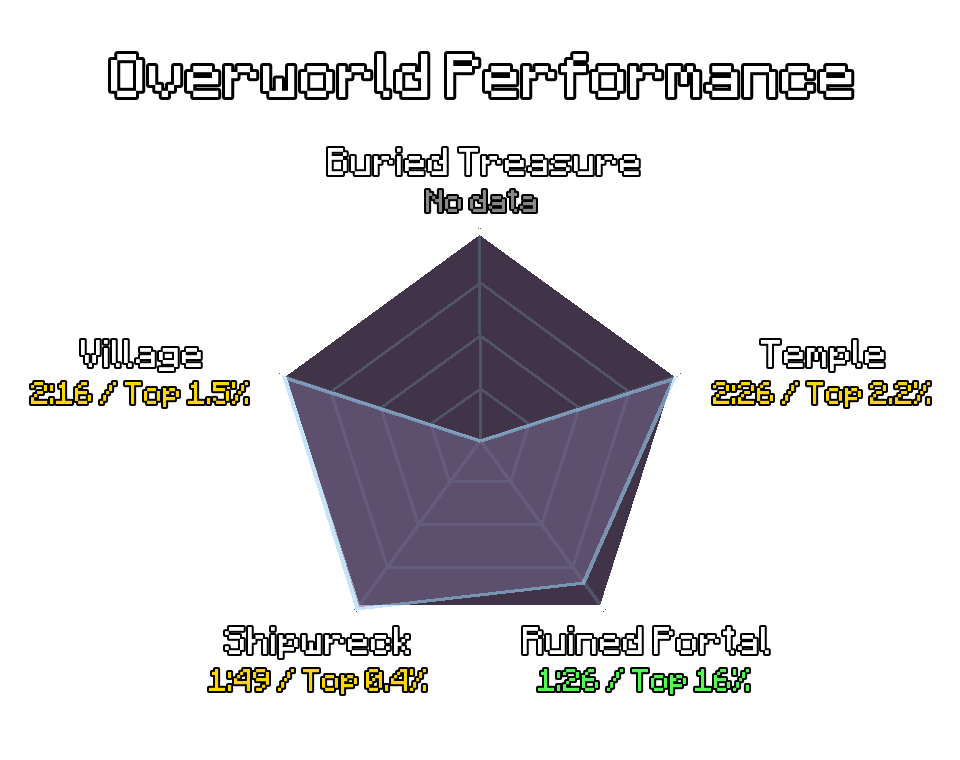
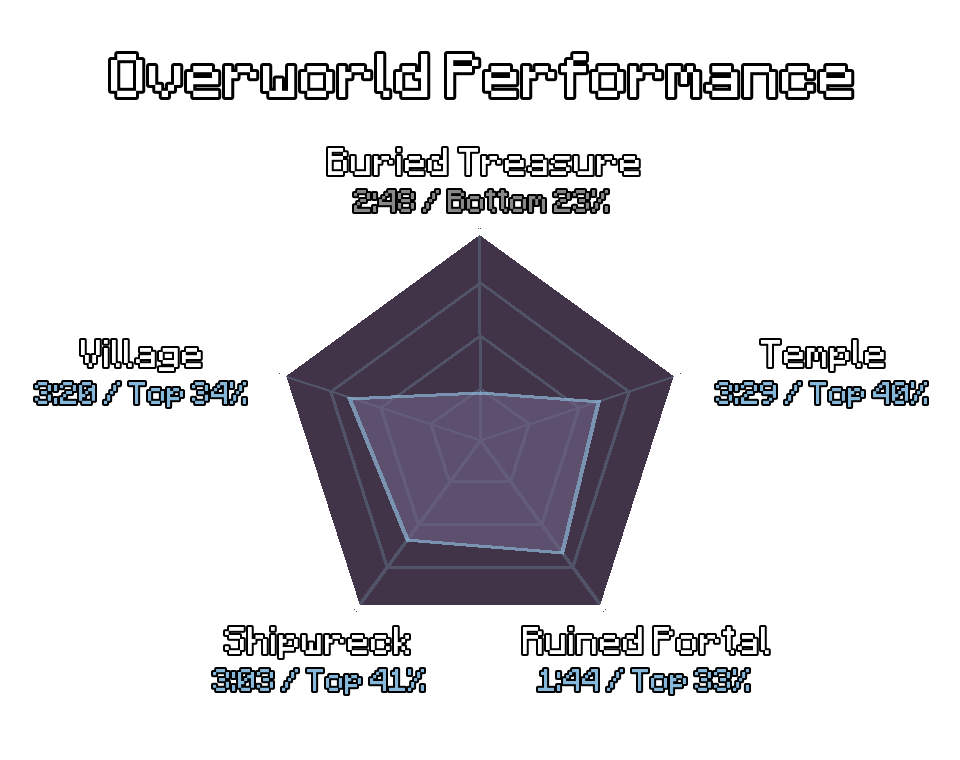
Update to sample size clarity and can choose season with analysis

diff --git a/src/bot.py b/src/bot.py
@@ -144,8 +144,8 @@ async def plot(interaction: Interaction, input_name: str = SlashOption(
     "season",
     required = False,
     description="The season to gather data for.",
-    default="5",
-    choices=["1", "2", "3", "4", "5", "Lifetime"]
+    default="6",
+    choices=["1", "2", "3", "4", "5", "6", "Lifetime"]
     ), hidden: str = SlashOption(
     "hidden",
     required = False,
@@ -329,12 +329,18 @@ async def match(interaction: Interaction, match_id: str = SlashOption(
     update_records("match", interaction.user.id, match_id, hidden, True)
 
 
-@bot.slash_command(name="analysis", description="Analyses your last ~150 games to visualise how a player performs throughout their runs.")
+@bot.slash_command(name="analysis", description="Analyses 100+ games from any season to visualise how a player performs throughout their runs.")
 async def analysis(interaction: Interaction, input_name: str = SlashOption(
     "name",
     required = False,
     description="The player to analyse.",
     default = ""
+    ), season: str = SlashOption(
+    "season",
+    required = False,
+    description="The season to gather data from.",
+    default="6",
+    choices=["1", "2", "3", "4", "5", "6"]
     ), hidden: str = SlashOption(
     "hidden",
     required = False,
@@ -411,42 +417,27 @@ async def analysis(interaction: Interaction, input_name: str = SlashOption(
             cd_extra = f"\nTheir last analysis is {last_link}"
 
     delta = int(time()) - user_cooldown
-    if delta < cooldown:
+    if delta < cooldown and not input_name == "Nadoms":
         next_available = f"<t:{user_cooldown + cooldown}:R>"
         print("Command on cooldown.")
         await interaction.followup.send(f"This command is on cooldown for `{input_name}`. (You can use it {next_available}){cd_extra}", ephemeral=hidden)
         update_records("analysis", interaction.user.id, input_name, hidden, False)
         return
 
-    detailed_matches = await games.get_detailed_matches(response, 30, 130)
-
-    completions = response["statistics"]["season"]["completions"]["ranked"]
-    games_played = response["statistics"]["season"]["playedMatches"]["ranked"]
+    num_comps, detailed_matches = await games.get_detailed_matches(response, season, 5, 150)
 
     if detailed_matches == -1:
         print("Player does not have enough completions.")
-        await interaction.followup.send(f"You need a minimum of 15 completions from this season to analyse. (You have {completions})", ephemeral=hidden)
-        update_records("analysis", interaction.user.id, input_name, hidden, False)
-        return
-    
-    if detailed_matches == -2:
-        print("Player's completion rate is too low.")
-        await interaction.followup.send(f"You need at least a 15% completion rate in this season to use this command. (You have {int(completions/games_played*100)}%)", ephemeral=hidden)
+        await interaction.followup.send(f"{input_name} needs a minimum of 5 completions from season {season} to analyse. (Has {num_comps})", ephemeral=hidden)
         update_records("analysis", interaction.user.id, input_name, hidden, False)
         return
 
     try:
-        anal = analysing.main(response, detailed_matches)
+        anal = analysing.main(response, num_comps, detailed_matches, season)
     except Exception as e:
         print("Error caught!")
         traceback.print_exc()
         await interaction.followup.send("An error has occurred. <@298936021557706754> fix it pls", ephemeral=hidden)
-        update_records("analysis", interaction.user.id, input_name, hidden, False)
-        return
-    
-    if anal == -3:
-        print("Player is unranked.")
-        await interaction.followup.send(f"You need to have a rank to use this command." , ephemeral=hidden)
         update_records("analysis", interaction.user.id, input_name, hidden, False)
         return
 

diff --git a/src/gen_functions/games.py b/src/gen_functions/games.py
@@ -107,47 +107,44 @@ def get_avg_completion(response, season_or_total):
     return avg_completion
 
 
-async def get_detailed_matches(player_response, min_comps, target_games):
+async def get_detailed_matches(player_response, season, min_comps, target_games):
     then = datetime.now()
     detailed_matches = []
-    # num_comps = 0
+    num_comps = 0
     num_games = 0
     i = 0
-    s = get_season()
 
     name = player_response["nickname"]
-    season_comps = player_response["statistics"]["season"]["completions"]["ranked"]
-    season_games = player_response["statistics"]["season"]["playedMatches"]["ranked"]
-    if season_comps < min_comps / 2:
-        return -1 # Not enough completions this season
-    if season_comps / season_games < 0.15:
-        return -2 # Ratio of completions to played matches is too low
-    
+    uuid = player_response["uuid"]
     response = "PLACEHOLDER"
     headers = {'User-Agent': 'Mozilla/5.0 (X11; Linux i686; rv:110.0) Gecko/20100101 Firefox/110.0.'}
 
-    while s >= get_season() - 1:
-        response = requests.get(f"https://mcsrranked.com/api/users/{name}/matches?page={i}&season={s}&count=50&type=2&excludedecay", headers=headers, timeout=10).json()["data"]
+    while True:
+        response = requests.get(f"https://mcsrranked.com/api/users/{name}/matches?page={i}&season={season}&count=50&type=2&excludedecay", headers=headers, timeout=10).json()["data"]
 
-        games_left = target_games-num_games
+        games_left = target_games - num_games
         if games_left <= 49 and len(response) > games_left:
             response = response[0:games_left]
 
         matches = await asyncio.gather(*[get_match_details(match["id"]) for match in response])
         detailed_matches += matches
+        i += 1
         num_games = len(detailed_matches)
-        if [] in matches:
-            i = 0
-            s -= 1
+        if matches == []:
+            break
 
         if num_games >= target_games:
             break
 
-    # if num_comps == 0:
-    #     return -1
+    for match in detailed_matches:
+        if not match["forfeited"] and match["result"]["uuid"] == uuid:
+            num_comps += 1
+
+    if num_comps < min_comps and not name == "Nadoms":
+        return num_comps, -1 # Not enough completions this season
 
     process_split(then, "Gathering data")
-    return detailed_matches
+    return num_comps, detailed_matches
 
 
 async def get_match_details(match_id):
@@ -188,7 +185,7 @@ def get_season():
         season = response[0]["match_season"]
         return season
     """
-    return 5
+    return 6
 
 
 def split(then, name="That"):

diff --git a/src/analysis_functions/split_insights.py b/src/analysis_functions/split_insights.py
@@ -20,15 +20,16 @@ ANGLES = [(i * (2 * math.pi)) / SIDES -
 ANGLES.insert(0, ANGLES.pop())
 
 
-def main(uuid, detailed_matches, elo):
-    average_splits, average_deaths = get_avg_splits(uuid, detailed_matches)
+def main(uuid, detailed_matches, elo, season, num_comps):
+    number_splits, average_splits, average_deaths = get_avg_splits(uuid, detailed_matches)
     ranked_splits = get_ranked_splits(average_splits)
     polygon = get_polygon(ranked_splits)
     polygon = add_text(polygon, average_splits, ranked_splits)
 
     comments = {}
-    comments["title"] = "Splits"
-    comments["description"] = "*Here are your strongest and weakest splits.*"
+    comments["title"] = f"Split Performance in Season {season}"
+    comments["description"] = f"{len(detailed_matches)} games (with {num_comps} completions) were used in analysing your splits. {get_sample_size(num_comps)}"
+    comments["count"] = get_count(number_splits)
     comments["best"], comments["worst"] = get_best_worst(ranked_splits)
     comments["player_deaths"], comments["rank_deaths"] = get_death_comments(average_deaths, elo)
 
@@ -96,7 +97,7 @@ def get_avg_splits(uuid, detailed_matches):
             average_splits[key] = round(time_splits[key] / number_splits[key])
             average_deaths[key] = round(average_deaths[key] / number_splits[key], 3)
 
-    return average_splits, average_deaths
+    return number_splits, average_splits, average_deaths
 
 
 def get_ranked_splits(average_splits):
@@ -271,6 +272,33 @@ def add_text(polygon, average_splits, ranked_splits):
         text_draw.text(xy[i], stat, font=stat_font, fill=s_colour, stroke_fill="#000000", stroke_width=2)
 
     return polygon
+
+
+def get_sample_size(num_comps):
+    if num_comps < 8:
+        return "This is a very low sample size. Your lategame averages won't be reliable."
+    if num_comps < 20:
+        return "This is an OK sample size."
+    else:
+        return "This is a large sample size and the data will reflect your skill across each split properly."
+
+
+def get_count(number_splits):
+    names = " OW  / NTR / BAS / FRT / BLN / SH  / END "
+    count = ""
+    for split in number_splits:
+        num = number_splits[split]
+        count += f" {num}"
+        count += " " * (4 - len(str(num)))
+        if split != "end":
+            count += "/"
+    value = f"`|{names}|`\n`|{count}|`"
+
+    count_comment = {
+        "name": "Split Counts",
+        "value": value
+    }
+    return count_comment
 
 
 def get_best_worst(ranked_splits):

diff --git a/src/analysis_functions/get_comments.py b/src/analysis_functions/get_comments.py
@@ -8,18 +8,28 @@ from gen_functions import games, rank, numb
 from gen_functions.word import percentify
 
 
-def main(response, detailed_matches):
-    elo = int(response["eloRate"])
-    avg = games.get_avg_completion(response, "season")
-    sb = int(response["statistics"]["season"]["bestTime"]["ranked"])
-    ffl = games.get_ff_loss(response, "season")
-
+def main(response):
     general_comments = {}
-    general_comments["title"] = f"Analysis of {response['nickname']} in Season {games.get_season()}"
-    general_comments["description"] = f"This is how you stack up against the playerbase. {len(detailed_matches)} games were used in analysing your splits and overworlds."
-    general_comments["elo"] = [f"ELO: `{elo}`", percentify(get_attr_ranked(elo, 'elo')), get_elo_equivalent(elo, 'elo')]
-    general_comments["avg"] = [f"Avg Finish: `{numb.digital_time(avg)}`", percentify(get_attr_ranked(avg, 'avg')), f"Equivalent to {get_elo_equivalent(avg, 'avg')} ELO"]
-    general_comments["sb"] = [f"Season Best: `{numb.digital_time(sb)}`", percentify(get_attr_ranked(sb, 'sb')), f"Equivalent to {get_elo_equivalent(sb, 'sb')} ELO"]
+    general_comments["title"] = f"Analysis of {response['nickname']}"
+    general_comments["description"] = (
+        "This is how you stack up against the playerbase. "
+        f"This section uses data from the current season, S{games.get_season()}."
+    )
+    
+    if not response["eloRate"]:
+        general_comments["elo"] = [f"ELO: `-`"]
+    else:
+        elo = int(response["eloRate"])
+        general_comments["elo"] = [f"ELO: `{elo}`", percentify(get_attr_ranked(elo, 'elo')), get_elo_equivalent(elo, 'elo')]
+    avg = games.get_avg_completion(response, "season")
+    if avg == 0:
+        general_comments["avg"] = [f"Avg Finish: `-`"]
+        general_comments["sb"] = [f"Avg Finish: `-`"]
+    else:
+        sb = int(response["statistics"]["season"]["bestTime"]["ranked"])
+        general_comments["avg"] = [f"Avg Finish: `{numb.digital_time(avg)}`", percentify(get_attr_ranked(avg, 'avg')), f"Equivalent to {get_elo_equivalent(avg, 'avg')} ELO"]
+        general_comments["sb"] = [f"Season Best: `{numb.digital_time(sb)}`", percentify(get_attr_ranked(sb, 'sb')), f"Equivalent to {get_elo_equivalent(sb, 'sb')} ELO"]
+    ffl = games.get_ff_loss(response, "season")
     general_comments["ffl"] = [f"Forfeit/Loss `{ffl}%`", get_ffl_comments(ffl)]
 
     return general_comments

diff --git a/src/analysis_functions/ow_insights.py b/src/analysis_functions/ow_insights.py
@@ -19,15 +19,16 @@ ANGLES = [(i * (2 * math.pi)) / SIDES -
 ANGLES.insert(0, ANGLES.pop())
 
 
-def main(uuid, detailed_matches):
-    average_ows = get_avg_ows(uuid, detailed_matches)
+def main(uuid, detailed_matches, season):
+    number_ows, average_ows = get_avg_ows(uuid, detailed_matches)
     ranked_ows = get_ranked_ows(average_ows)
     polygon = get_polygon(ranked_ows)
     polygon = add_text(polygon, average_ows, ranked_ows)
 
     comments = {}
-    comments["title"] = "Overworlds"
-    comments["description"] = "*These are your best and worst overworlds.*"
+    comments["title"] = f"Overworld Performance in Season {season}"
+    comments["description"] = f"{len(detailed_matches)} games were used in analysing your overworlds. {get_sample_size(len(detailed_matches))}"
+    comments["count"] = get_count(number_ows)
     comments["best"], comments["worst"] = get_best_worst(ranked_ows)
 
     return comments, polygon
@@ -72,7 +73,7 @@ def get_avg_ows(uuid, detailed_matches):
         else:
             average_ows[ow_key] = round(time_ows[ow_key] / number_ows[ow_key])
 
-    return average_ows
+    return number_ows, average_ows
 
 
 def get_ranked_ows(average_ows):
@@ -235,6 +236,33 @@ def add_text(polygon, average_ows, ranked_ows):
         text_draw.text(xy[i], stat, font=stat_font, fill=s_colour, stroke_fill="#000000", stroke_width=2)
 
     return polygon
+
+
+def get_sample_size(num_games):
+    if num_games < 30:
+        return "This is a very low sample size. Take the RP and DT averages with a grain of salt."
+    if num_games < 80:
+        return "This is an OK sample size."
+    else:
+        return "This is a large sample size and the data will reflect your overworld skills properly."
+
+
+def get_count(number_ows):
+    names = " BT  / DT  / RP  / SHP / VIL "
+    count = ""
+    for ow in number_ows:
+        num = number_ows[ow]
+        count += f" {num}"
+        count += " " * (4 - len(str(num)))
+        if ow != "village":
+            count += "/"
+    value = f"`|{names}|`\n`|{count}|`"
+
+    count_comment = {
+        "name": "Overworld Counts",
+        "value": value
+    }
+    return count_comment
 
 
 def get_best_worst(ranked_ows):

diff --git a/src/commands/analysis.py b/src/commands/analysis.py
@@ -9,11 +9,9 @@ from gen_functions import games
 from gen_functions.word import process_split
 
 
-def main(response, detailed_matches):
+def main(response, num_comps, detailed_matches, season):
     uuid = response["uuid"]
     elo = response["eloRate"]
-    if elo == -1:
-        return -3
 
     split_polygon = Image.new("RGB", (400, 400), "#313338")
     ow_polygon = Image.new("RGB", (400, 400), "#313338")
@@ -21,11 +19,11 @@ def main(response, detailed_matches):
     then = datetime.now()
     skin = get_skin.main(uuid)
     then = process_split(then, "Finding skin")
-    general_comments = get_comments.main(response, detailed_matches)
+    general_comments = get_comments.main(response)
     then = process_split(then, "Generating insights")
-    split_comm, split_polygon = split_insights.main(uuid, detailed_matches, elo)
+    split_comm, split_polygon = split_insights.main(uuid, detailed_matches, elo, season, num_comps)
     then = process_split(then, "Recognising split performance")
-    ow_comm, ow_polygon = ow_insights.main(uuid, detailed_matches)
+    ow_comm, ow_polygon = ow_insights.main(uuid, detailed_matches, season)
     then = process_split(then, "Recognising OW performance")
     # polygons = combine.main(split_polygon, ow_polygon)
 

diff --git a/src/gen_functions/numb.py b/src/gen_functions/numb.py
@@ -14,6 +14,8 @@ def round_sf(num, sf):
     return num
 
 def digital_time(raw_time):
+    if not isinstance(raw_time, int):
+        return raw_time
     time = str(timedelta(milliseconds=raw_time))[2:7]
     if time[0] == "0":
         time = time[1:]
